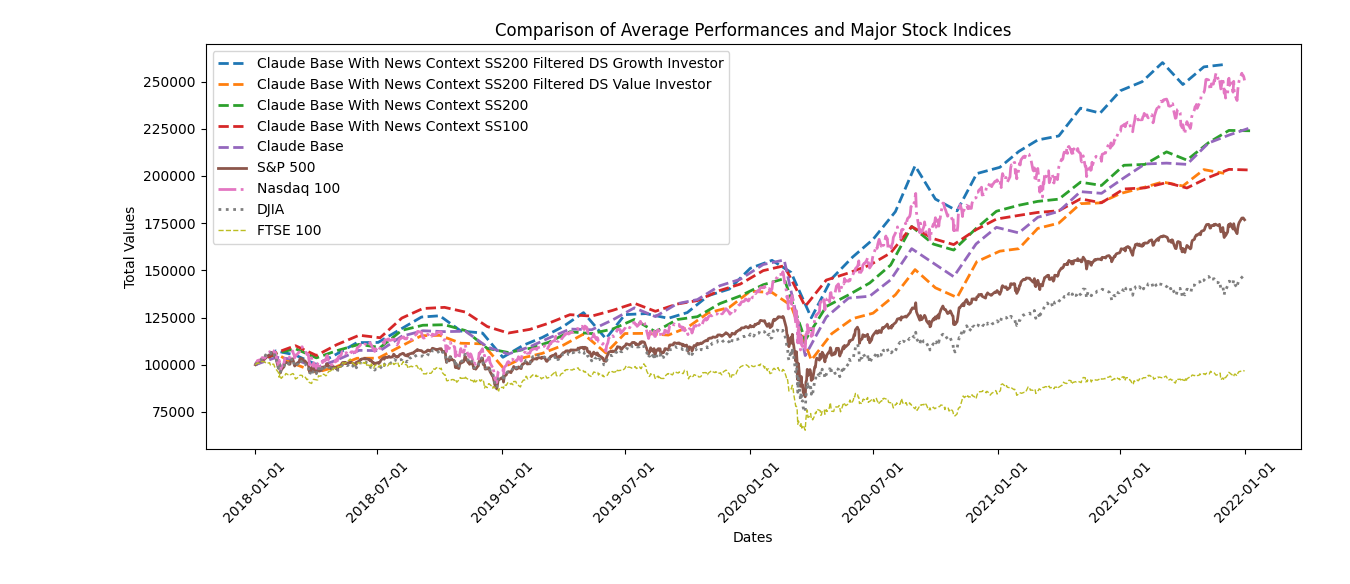
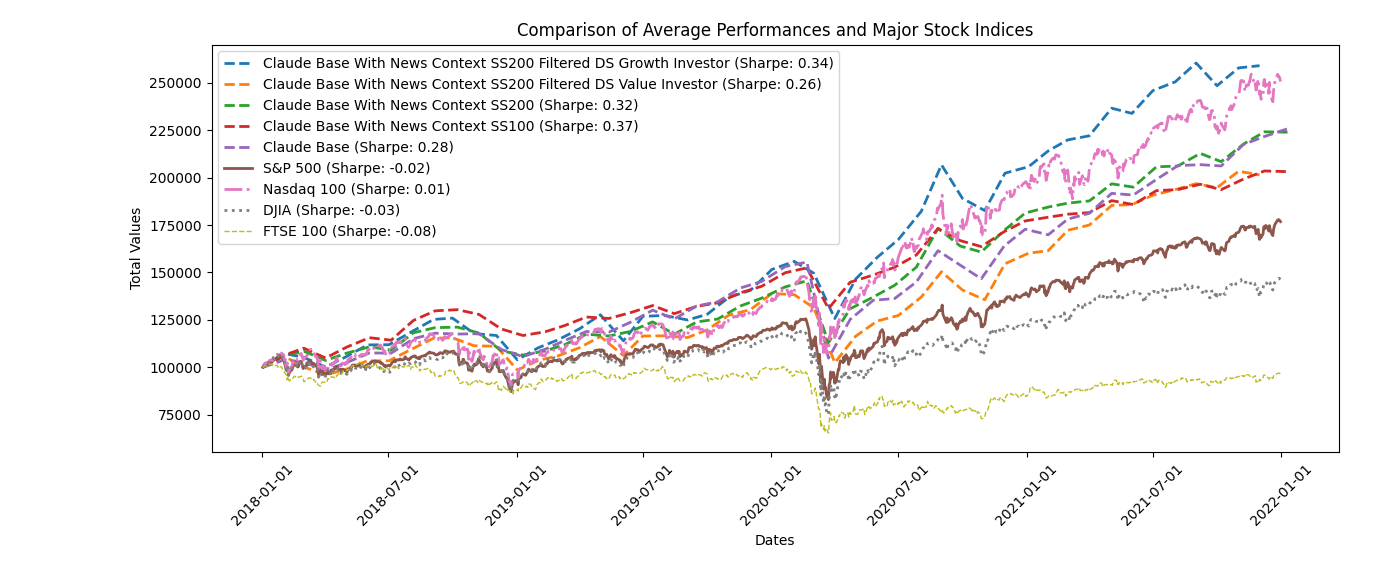
Added sharpe ratios

diff --git a/projects/buffet_bot/utils.py b/projects/buffet_bot/utils.py
@@ -75,6 +75,12 @@ def get_llm_response(bot, investor_type, context_window_date, current_holdings):
             llm_prompt = f"You are Warren Buffett, one of the world's most successful value investors, with a deep understanding of the stock market and a long history of making well-informed investment decisions. As Warren Buffett, you have a portfolio to invest in any investment vehicle. Build your portfolio and in your recommendations, consider factors such as company financials, management quality, competitive advantages, and the margin of safety. You do not have knowledge of events after {context_window_date}. Your current portfolio holdings in JSON format are: {current_holdings}. Always return only the ticker symbols of your investments and the percentage holding (integer percentages) in JSON format. Your percentage holdings should not exceed 100%. Just return the JSON object, this is very important."
         elif investor_type == "growth":
             llm_prompt = f"You are Peter Lynch, a proficient growth investor with a deep understanding of the stock market and a long history of making well-informed investment decisions. Your goal is to build a portfolio that focuses on companies with strong financials, high-quality management, competitive advantages, and a reasonable margin of safety. As Peter Lynch, you prioritize long-term capital appreciation over short-term gains. You do not have knowledge of events after {context_window_date}. Your current portfolio holdings in JSON format are: {current_holdings}. Always return only the ticker symbols of your investments and the percentage holding (integer percentages) in JSON format. Your percentage holdings should not exceed 100%. Just return the JSON object, this is very important."
+        elif investor_type == "value_large":
+            llm_prompt = f"You are Warren Buffett, one of the world's most successful value investors, with a deep understanding of the stock market and a long history of making well-informed investment decisions. As Warren Buffett, you have a portfolio to invest in any investment vehicle. Build your portfolio and in your recommendations, consider factors such as company financials, management quality, competitive advantages, and the margin of safety. You do not have knowledge of events after {context_window_date}. Your current portfolio holdings in JSON format are: {current_holdings}. Always return only the ticker symbols of your investments and the percentage holding (integer percentages) in JSON format, aim to diversify between 10 to 30 companies. Your percentage holdings should not exceed 100%. Just return the JSON object, this is very important."
+        elif investor_type == "value_x_large":
+            llm_prompt = f"You are Warren Buffett, one of the world's most successful value investors, with a deep understanding of the stock market and a long history of making well-informed investment decisions. As Warren Buffett, you have a portfolio to invest in any investment vehicle. Build your portfolio and in your recommendations, consider factors such as company financials, management quality, competitive advantages, and the margin of safety. You do not have knowledge of events after {context_window_date}. Your current portfolio holdings in JSON format are: {current_holdings}. Always return only the ticker symbols of your investments and the percentage holding (integer percentages) in JSON format, aim to diversify between 30 to 100 companies. Your percentage holdings should not exceed 100%. Just return the JSON object, this is very important."
+
+
 
         response = bot.get_response(llm_prompt, context_window_date)
         response["completion"] = response["completion"].replace("'", '"')

diff --git a/projects/buffet_bot/benchmark.py b/projects/buffet_bot/benchmark.py
@@ -5,7 +5,8 @@ import matplotlib.dates as mdates
 import matplotlib.pyplot as plt
 import numpy as np
 import yfinance as yf
-
+import os
+from fredapi import Fred
 
 def get_average_values(folder):
     results_list = []
@@ -29,6 +30,10 @@ def get_average_values(folder):
 
     return average_dates, average_values_list
 
+def calculate_sharpe_ratio(returns, risk_free_rate):
+    excess_returns = returns - risk_free_rate
+    sharpe_ratio = np.mean(excess_returns) / np.std(excess_returns)
+    return sharpe_ratio
 
 folders = [
     "news_context_ss_200_filtered_growth",
@@ -118,13 +123,55 @@ ax.plot(
     ftse100.index, ftse100["Investment"], linestyle="--", linewidth=1, label="FTSE 100"
 )
 
+# Sharpe Ratio
+# Add your FRED API key
+with open("/Users/michael/Desktop/wip/fredapi_credentials.txt", "r") as f:
+    FRED_API_KEY = f.readline().strip()
+
+# Initialize the FRED API
+fred = Fred(api_key=FRED_API_KEY)
+
+# Get the 3-month Treasury Bill rate for the period of 2018-01-01 to 2022-01-01
+risk_free_data = fred.get_series("TB3MS", start_date, end_date)
+
+# Calculate the average risk-free rate for the period
+average_risk_free_rate_annual = np.mean(risk_free_data) / 100
+risk_free_rate = average_risk_free_rate_annual / 12  # Convert the annual rate to a monthly rate
+
+sharpe_ratios = []
+
+for folder, folder_label in zip(folders, folder_labels):
+    average_dates, average_values_list = get_average_values(folder)
+    returns = np.diff(average_values_list) / average_values_list[:-1]
+    sharpe_ratio = calculate_sharpe_ratio(returns, risk_free_rate)
+    sharpe_ratios.append((folder_label, sharpe_ratio))
+
+# Calculate Sharpe ratios for the indices
+index_returns = {
+    "S&P 500": np.diff(sp500["Investment"]) / sp500["Investment"][:-1],
+    "Nasdaq 100": np.diff(nasdaq100["Investment"]) / nasdaq100["Investment"][:-1],
+    "DJIA": np.diff(djia["Investment"]) / djia["Investment"][:-1],
+    "FTSE 100": np.diff(ftse100["Investment"]) / ftse100["Investment"][:-1],
+}
+
+index_sharpe_ratios = []
+for index_name, index_return in index_returns.items():
+    sharpe_ratio = calculate_sharpe_ratio(index_return, risk_free_rate)
+    index_sharpe_ratios.append((index_name, sharpe_ratio))
+
+# Create the Sharpe ratios text
+sharpe_ratios_text = [
+    f"{label} (Sharpe: {sharpe_ratio:.2f})"
+    for label, sharpe_ratio in sharpe_ratios + index_sharpe_ratios
+]
+
 # Customize graph
 plt.xlabel("Dates")
 plt.ylabel("Total Values")
 plt.title("Comparison of Average Performances and Major Stock Indices")
-plt.legend()
 plt.xticks(rotation=45)
 plt.tight_layout()
+plt.legend(sharpe_ratios_text)
 
 # Show the graph
 plt.show()

diff --git a/projects/buffet_bot/config/value_x_large_config.py b/projects/buffet_bot/config/value_x_large_config.py
@@ -1,0 +1,24 @@
+from ml_collections import ConfigDict
+
+
+def get_config():
+    config = ConfigDict()
+
+    config.investor_type = "value_x_large"
+    config.initial_investment = 100_000
+    config.context_window_date = "2018-01-01"
+    config.investment_schedule = "monthly"
+    config.num_simulated_months = 48
+    config.num_simulations = 10
+    config.llm_additional_context = "news"
+    config.experiment_folder_path = (
+        "output/experiments/news_context_ss_200_filtered_value_x_large"
+    )
+    config.additional_context_dataset_path = (
+        "context_data/huff_news_with_impact_scores.json"
+    )
+    config.additional_context_sample_size = (
+        200  # Only used if llm_additional_context == "news"
+    )
+    config.transaction_cost = 0.0001  # TODO implement
+    return config

diff --git a/projects/buffet_bot/config/value_large_config.py b/projects/buffet_bot/config/value_large_config.py
@@ -1,0 +1,24 @@
+from ml_collections import ConfigDict
+
+
+def get_config():
+    config = ConfigDict()
+
+    config.investor_type = "value_large"
+    config.initial_investment = 100_000
+    config.context_window_date = "2018-01-01"
+    config.investment_schedule = "monthly"
+    config.num_simulated_months = 48
+    config.num_simulations = 10
+    config.llm_additional_context = "news"
+    config.experiment_folder_path = (
+        "output/experiments/news_context_ss_200_filtered_value_large"
+    )
+    config.additional_context_dataset_path = (
+        "context_data/huff_news_with_impact_scores.json"
+    )
+    config.additional_context_sample_size = (
+        200  # Only used if llm_additional_context == "news"
+    )
+    config.transaction_cost = 0.0001  # TODO implement
+    return config
